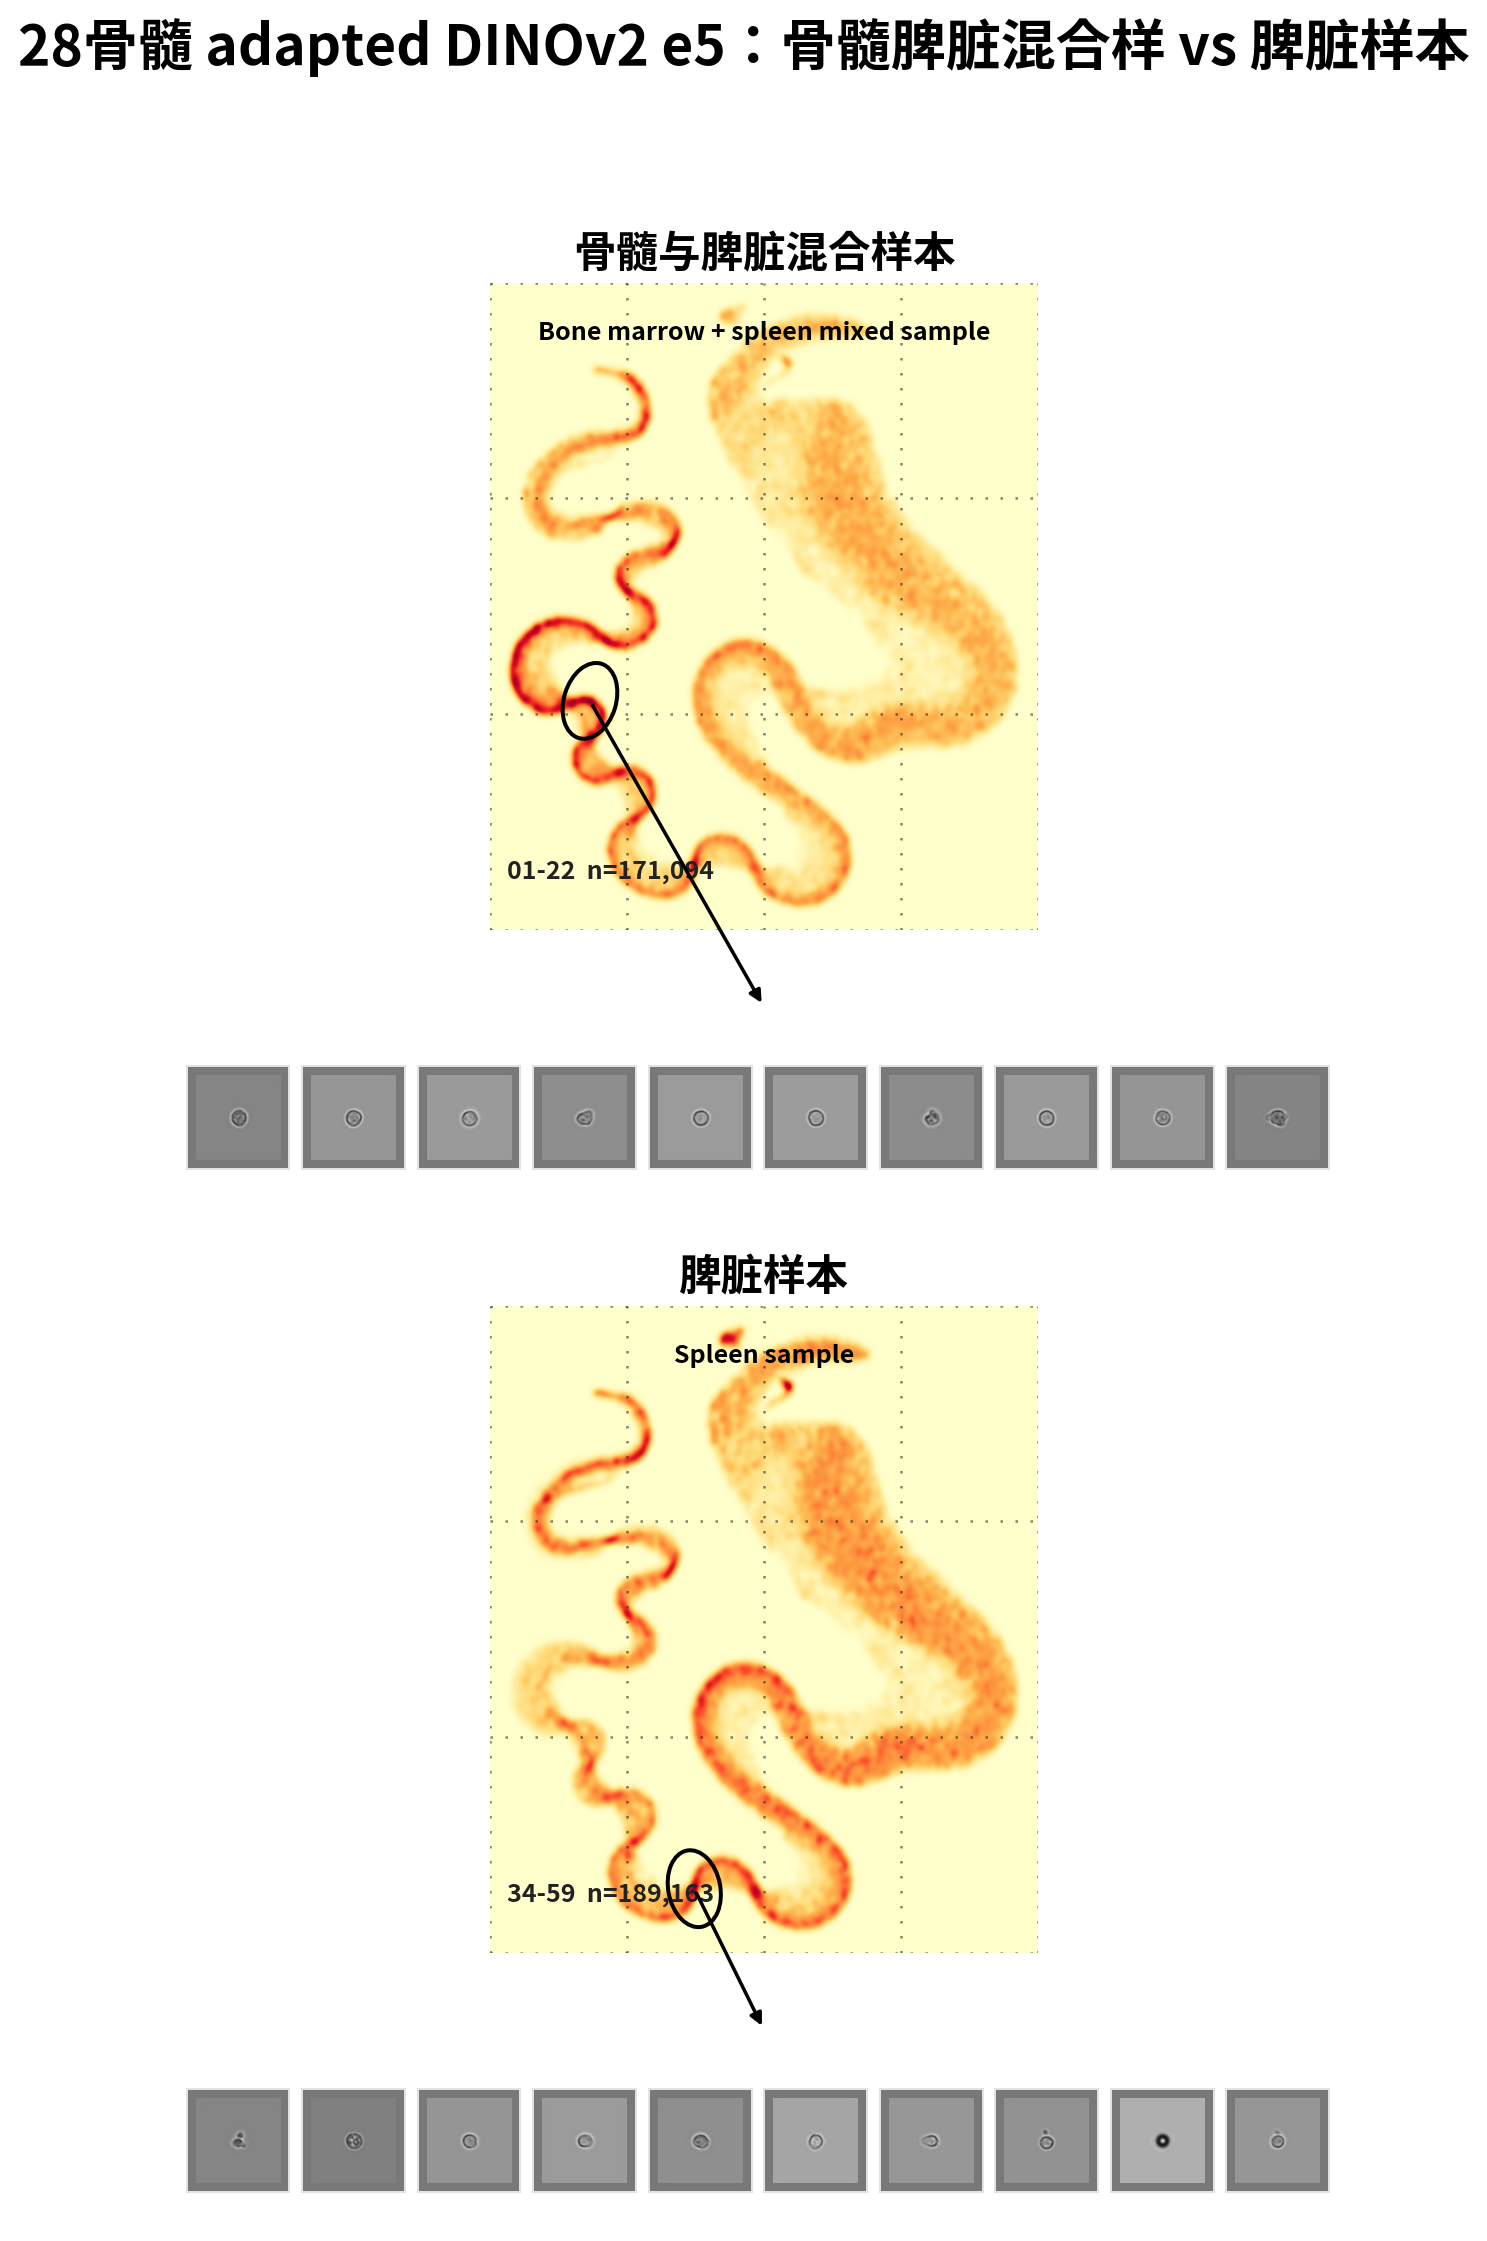
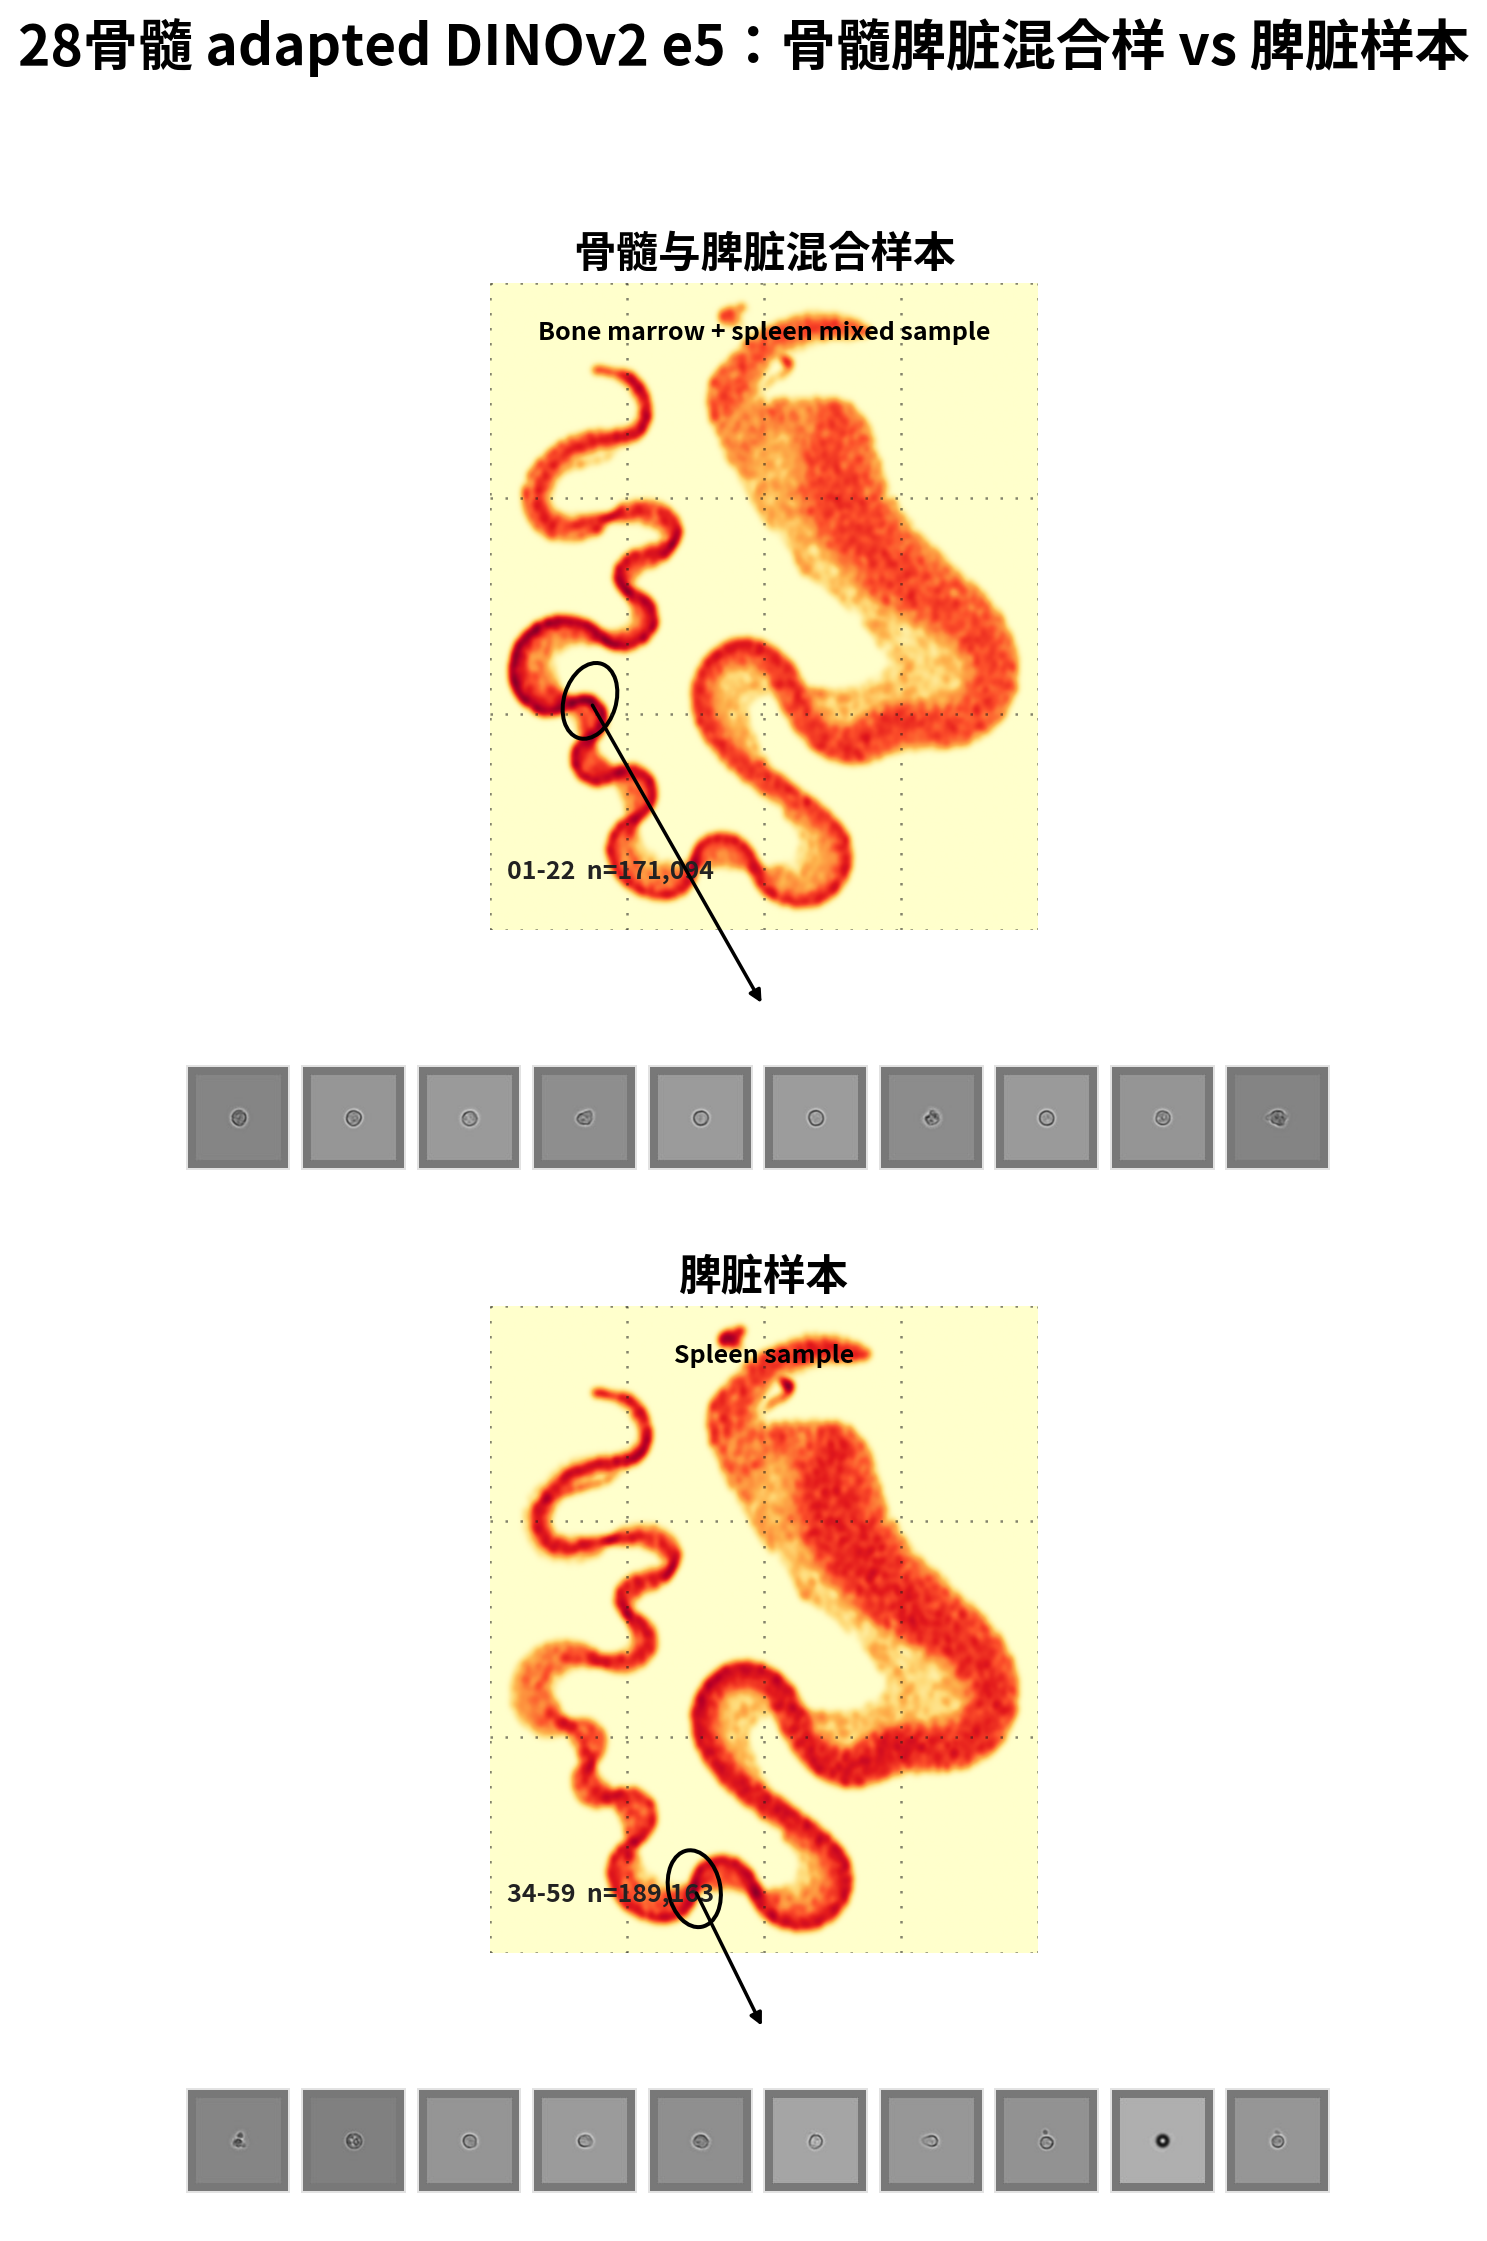
Restore original independent scale density plots

Changed region(s): [[0.3403, 0.1249, 0.7115, 0.4061], [0.3403, 0.5935, 0.7115, 0.8746]]

diff --git a/28gusui_bm_spleen_distribution_independent_scale_20260501/index.html b/28gusui_bm_spleen_distribution_independent_scale_20260501/index.html
@@ -29,7 +29,7 @@
     </header>
     <section class="note">
       <h2>这张图怎么看</h2>
-      <p>这张图和统一尺度版本使用同一套 DINOv2 UMAP 坐标，也同样按文件夹把细胞分成 01-22 骨髓与脾脏混合样本、34-59 脾脏样本。不同点在颜色：这里每张小图都用自己的“温度计”。也就是说，上图会把上图里最集中的地方涂成最红，下图也会把下图里最集中的地方涂成最红。所以这个版本更适合看每个样本内部哪里最集中、形状长什么样；但不适合直接比较上下两张图谁更密，因为两张图的红色不是同一个绝对标准。黑圈圈出的是当前图里的一个局部高密度区域，下面那排灰色细胞图就是从这个黑圈里的细胞候选点中抽出来的。</p>
+      <p>这张图和最开始的无统一尺度版本一致：使用同一套 DINOv2 UMAP 坐标，按文件夹把细胞分成 01-22 骨髓与脾脏混合样本、34-59 脾脏样本；画密度时直接按各自 panel 里的原始点数来画。颜色上，每张小图都用自己的“温度计”：上图会把上图里最集中的地方涂成最红，下图也会把下图里最集中的地方涂成最红。所以这个版本更适合看每个样本内部哪里最集中、形状长什么样；但不适合直接比较上下两张图谁更密，因为两张图的红色不是同一个绝对标准。黑圈圈出的是当前图里的一个局部高密度区域，下面那排灰色细胞图就是从这个黑圈里的细胞候选点中抽出来的。</p>
     </section>
 
       <section class="panel">
